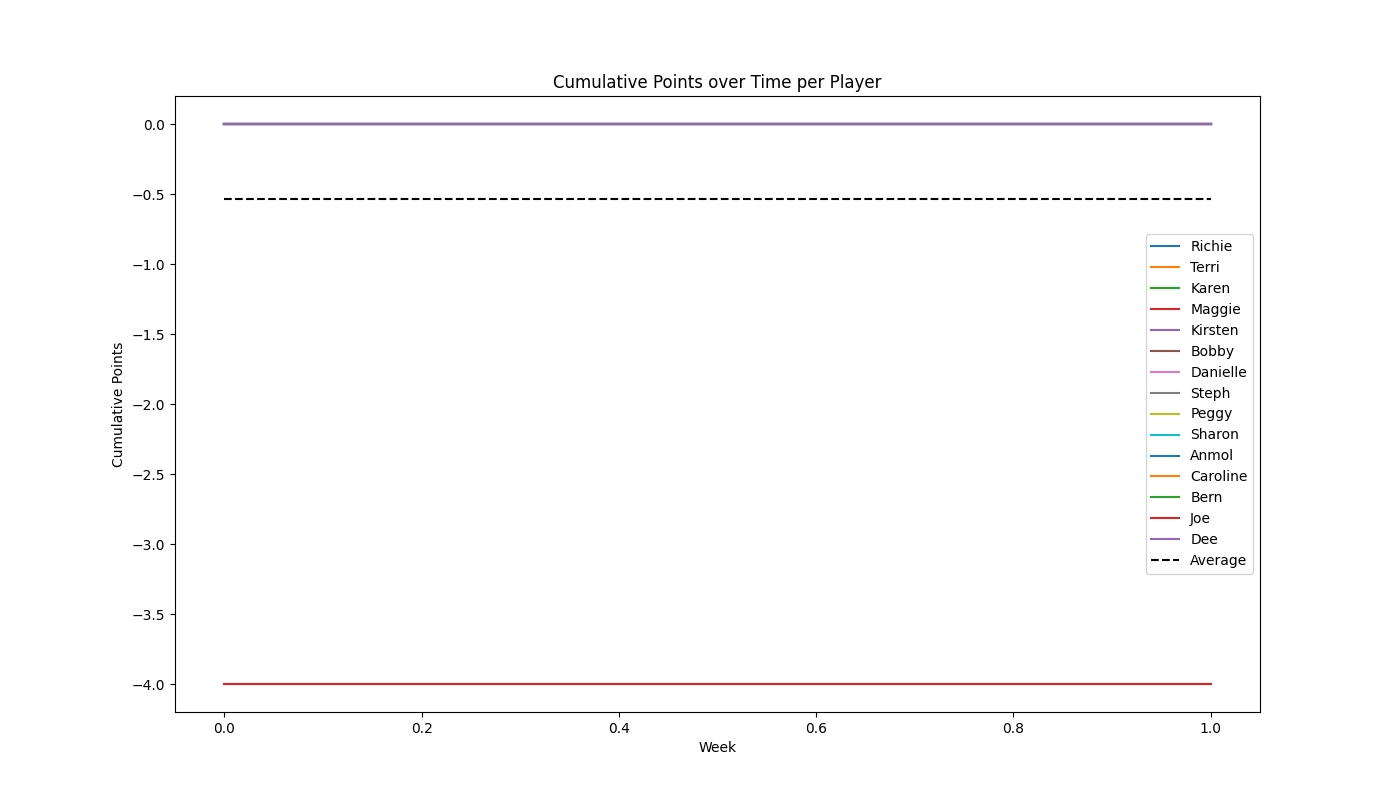
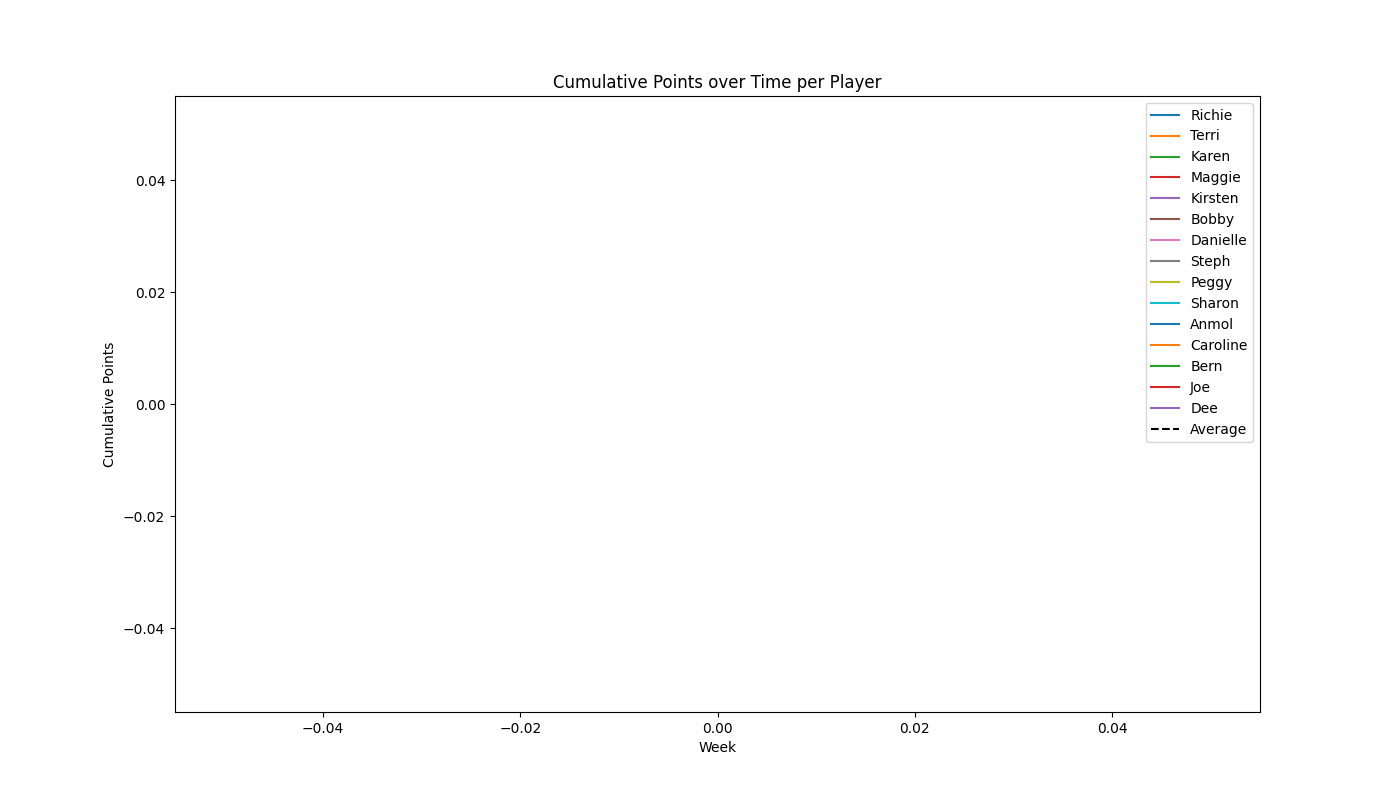
updated index file for this year

diff --git a/docs/index.html b/docs/index.html
@@ -58,7 +58,7 @@
                     <p>For those of you that have played in the past, this is essentially the same game that we have played for the last couple of years, I just developed this website in order to make the game more user-friendly. The point calculations are the exact same as last year, but feel free to review that section below!</p>
                     <p>For those of you who are new this year: this is a Fantasy Football-style draft for the game show 'Big Brother.' To play, all you need to do is look at the list of contestants on this year's Big Brother, order ALL of the contestants from who you think is most likely to win to who you think is least likely to win (see point scoring below for more details), and send me the list (preferably by phone: 617-999-8985). Then send $20 to my venmo (@rclavey), winner takes all! When sending your list, also let me know if you're interested in being included in a group chat or not. It looks like the final number for this year is 15, which means the final pot will be $300. In the event of a tie, anyone who is tied for first will split the pot evenly, although this hasn't happened yet.</p>
                     <p>That's it! That's all you need to do, however I'll make a group chat for those interested in talking about the game, and there are three episodes per week you can watch to stay up-to-date. I will do my very best to update this website after each and every episode, however, I am running this by myself so I apologize in advance if I fall behind at all. To ensure the game is fair and for the sake of transparency, I have this code posted on my github, (https://github.com/rclavey/git_hub/tree/master/big_brother). Feel free to check the code and bring any issues to my attention, it's mostly in Python. The code is private so just shoot me a text before looking at it so I can give you access.</p>
-                    <p>The cast can be found at several websites, here is one: <a href="https://variety.com/gallery/big-brother-26-cast-photos-twist/big-brother-season-26-14/" target="_blank">Big Brother 25 Cast Photos</a></p>
+                    <p>The cast can be found at several websites, here is one: <a href="https://parade.com/tv/big-brother-27-cast-photos-interview-2025" target="_blank">Big Brother 25 Cast Photos</a></p>
                     <p>On this website you will find the Home page (the page you're on now), the Graphs page, the Data page, the Leaderboard page, and the Log page. The Graphs page will have a graph for everyone's current points in order of most to least as well as a points over time graph that has everybody's points graphed week over week. The data page will have everyone's picks, the points everyone has every week, and the winners of all the competitions inside the Big Brother House. The Leaderboard page will have a leaderboard with everyone's name and current points. The Log Page will have detailed statements explaining why every player lost/gained the points they did each week. </p>
                     <h3>Point Scoring:</h3>
                     <ol>
@@ -397,8 +397,6 @@
                                     
                                     <th>Week 1</th>
                                     
-                                    <th>Week 2</th>
-                                    
                                 </tr>
                             </thead>
                             <tbody>
@@ -406,8 +404,6 @@
                                 <tr>
                                     
                                     <td>Richie</td>
-                                    
-                                    <td>0</td>
                                     
                                     <td>0</td>
                                     
@@ -423,15 +419,11 @@
                                     
                                     <td>0</td>
                                     
-                                    <td>0</td>
-                                    
                                 </tr>
                                 
                                 <tr>
                                     
                                     <td>Karen</td>
-                                    
-                                    <td>0</td>
                                     
                                     <td>0</td>
                                     
@@ -447,17 +439,13 @@
                                     
                                     <td>0</td>
                                     
-                                    <td>0</td>
-                                    
                                 </tr>
                                 
                                 <tr>
                                     
                                     <td>Kirsten</td>
                                     
-                                    <td>-4</td>
-                                    
-                                    <td>-4</td>
+                                    <td>0</td>
                                     
                                     <td>0</td>
                                     
@@ -466,8 +454,6 @@
                                 <tr>
                                     
                                     <td>Bobby</td>
-                                    
-                                    <td>0</td>
                                     
                                     <td>0</td>
                                     
@@ -483,15 +469,11 @@
                                     
                                     <td>0</td>
                                     
-                                    <td>0</td>
-                                    
                                 </tr>
                                 
                                 <tr>
                                     
                                     <td>Steph</td>
-                                    
-                                    <td>0</td>
                                     
                                     <td>0</td>
                                     
@@ -507,15 +489,11 @@
                                     
                                     <td>0</td>
                                     
-                                    <td>0</td>
-                                    
                                 </tr>
                                 
                                 <tr>
                                     
                                     <td>Sharon</td>
-                                    
-                                    <td>0</td>
                                     
                                     <td>0</td>
                                     
@@ -531,15 +509,11 @@
                                     
                                     <td>0</td>
                                     
-                                    <td>0</td>
-                                    
                                 </tr>
                                 
                                 <tr>
                                     
                                     <td>Caroline</td>
-                                    
-                                    <td>0</td>
                                     
                                     <td>0</td>
                                     
@@ -555,17 +529,13 @@
                                     
                                     <td>0</td>
                                     
-                                    <td>0</td>
-                                    
                                 </tr>
                                 
                                 <tr>
                                     
                                     <td>Joe</td>
                                     
-                                    <td>-4</td>
-                                    
-                                    <td>-4</td>
+                                    <td>0</td>
                                     
                                     <td>0</td>
                                     
@@ -574,8 +544,6 @@
                                 <tr>
                                     
                                     <td>Dee</td>
-                                    
-                                    <td>0</td>
                                     
                                     <td>0</td>
                                     
@@ -604,7 +572,7 @@
                                     
                                     <td>hoh_winners</td>
                                     
-                                    <td>Clifton</td>
+                                    <td></td>
                                     
                                 </tr>
                                 
@@ -695,6 +663,11 @@
                         </tr>
                         
                         <tr>
+                            <td>Kirsten</td>
+                            <td>0</td>
+                        </tr>
+                        
+                        <tr>
                             <td>Bobby</td>
                             <td>0</td>
                         </tr>
@@ -735,18 +708,13 @@
                         </tr>
                         
                         <tr>
-                            <td>Dee</td>
+                            <td>Joe</td>
                             <td>0</td>
                         </tr>
                         
                         <tr>
-                            <td>Kirsten</td>
-                            <td>-4</td>
-                        </tr>
-                        
-                        <tr>
-                            <td>Joe</td>
-                            <td>-4</td>
+                            <td>Dee</td>
+                            <td>0</td>
                         </tr>
                         
                     </tbody>
@@ -757,50 +725,8 @@
                 <h3 class="mt-3">Logs</h3>
                 <ul class="nav nav-tabs mt-3" id="logsSubTab" role="tablist">
                     
-                    <li class="nav-item">
-                        <a class="nav-link active" id="Kirsten-logs-tab" data-toggle="tab" href="#Kirsten-logs" role="tab" aria-controls="Kirsten-logs" aria-selected="true">Kirsten</a>
-                    </li>
-                    
-                    <li class="nav-item">
-                        <a class="nav-link " id="Joe-logs-tab" data-toggle="tab" href="#Joe-logs" role="tab" aria-controls="Joe-logs" aria-selected="true">Joe</a>
-                    </li>
-                    
                 </ul>
                 <div class="tab-content" id="logsSubTabContent">
-                    
-                    <div class="tab-pane fade show active" id="Kirsten-logs" role="tabpanel" aria-labelledby="Kirsten-logs-tab">
-                        <table class="table table-bordered mt-3">
-                            <thead>
-                                <tr>
-                                    <th>Log</th>
-                                </tr>
-                            </thead>
-                            <tbody>
-                                
-                                <tr>
-                                    <td>Kirsten lost 4 points because Clifton won HOH during week 1.</td>
-                                </tr>
-                                
-                            </tbody>
-                        </table>
-                    </div>
-                    
-                    <div class="tab-pane fade " id="Joe-logs" role="tabpanel" aria-labelledby="Joe-logs-tab">
-                        <table class="table table-bordered mt-3">
-                            <thead>
-                                <tr>
-                                    <th>Log</th>
-                                </tr>
-                            </thead>
-                            <tbody>
-                                
-                                <tr>
-                                    <td>Joe lost 4 points because Clifton won HOH during week 1.</td>
-                                </tr>
-                                
-                            </tbody>
-                        </table>
-                    </div>
                     
                 </div>
             </div>
